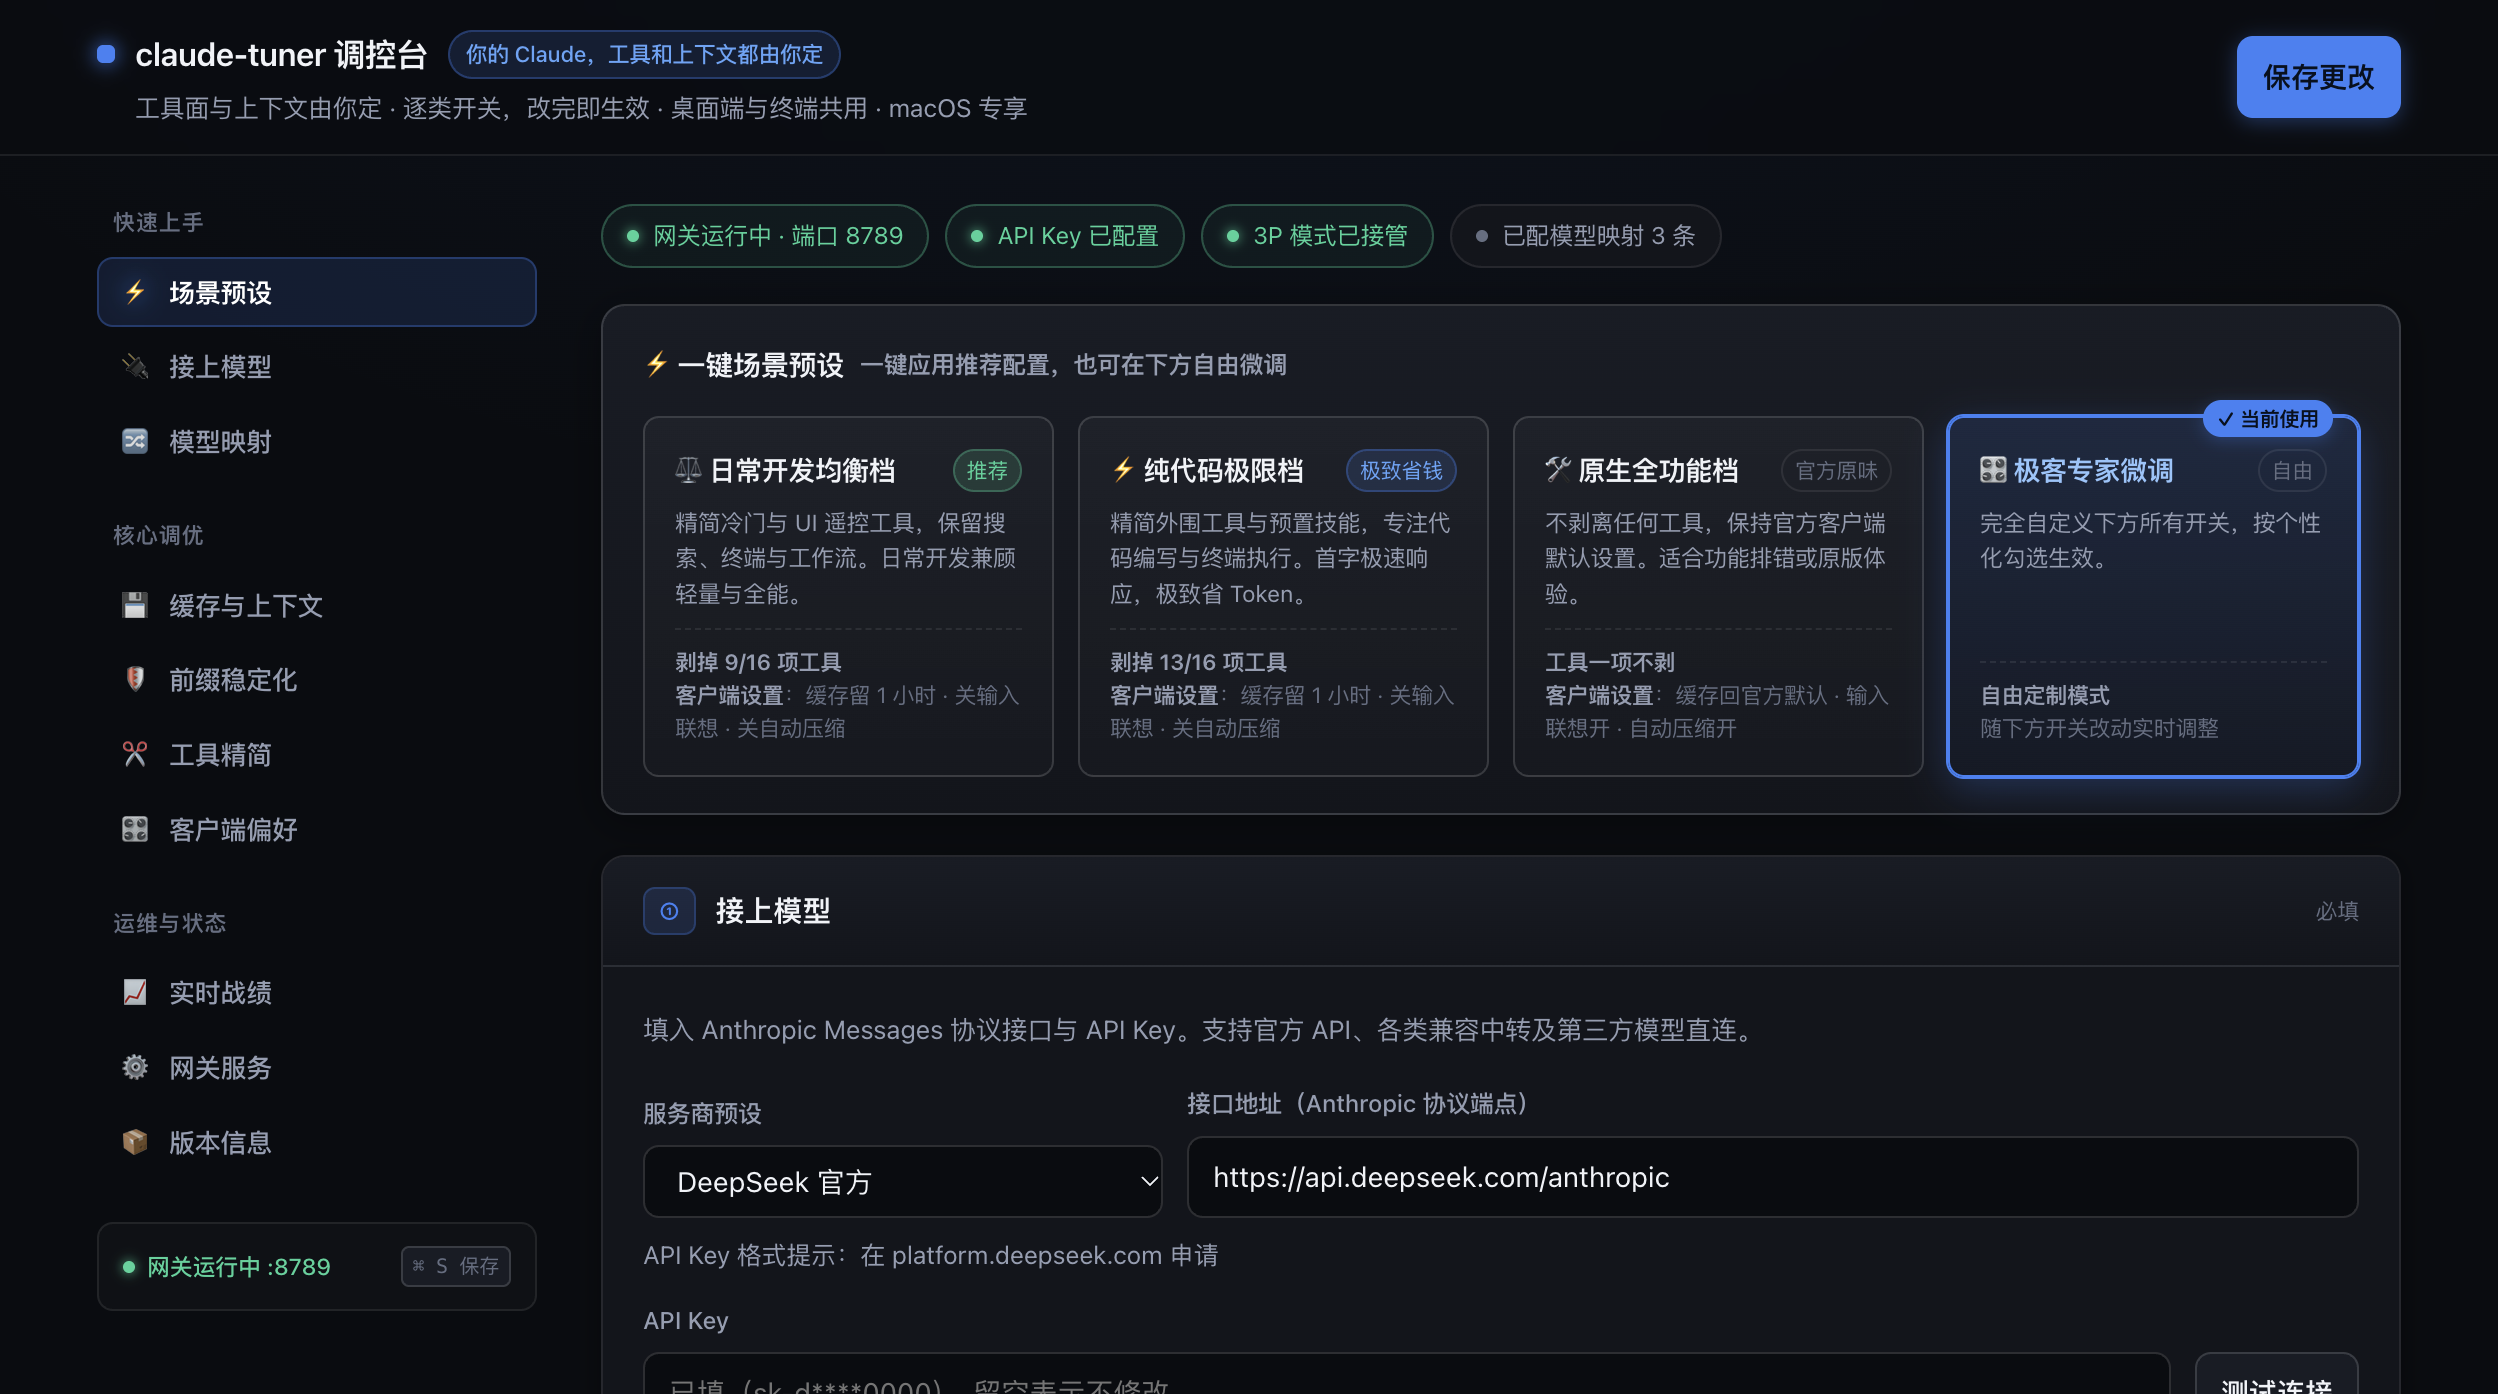
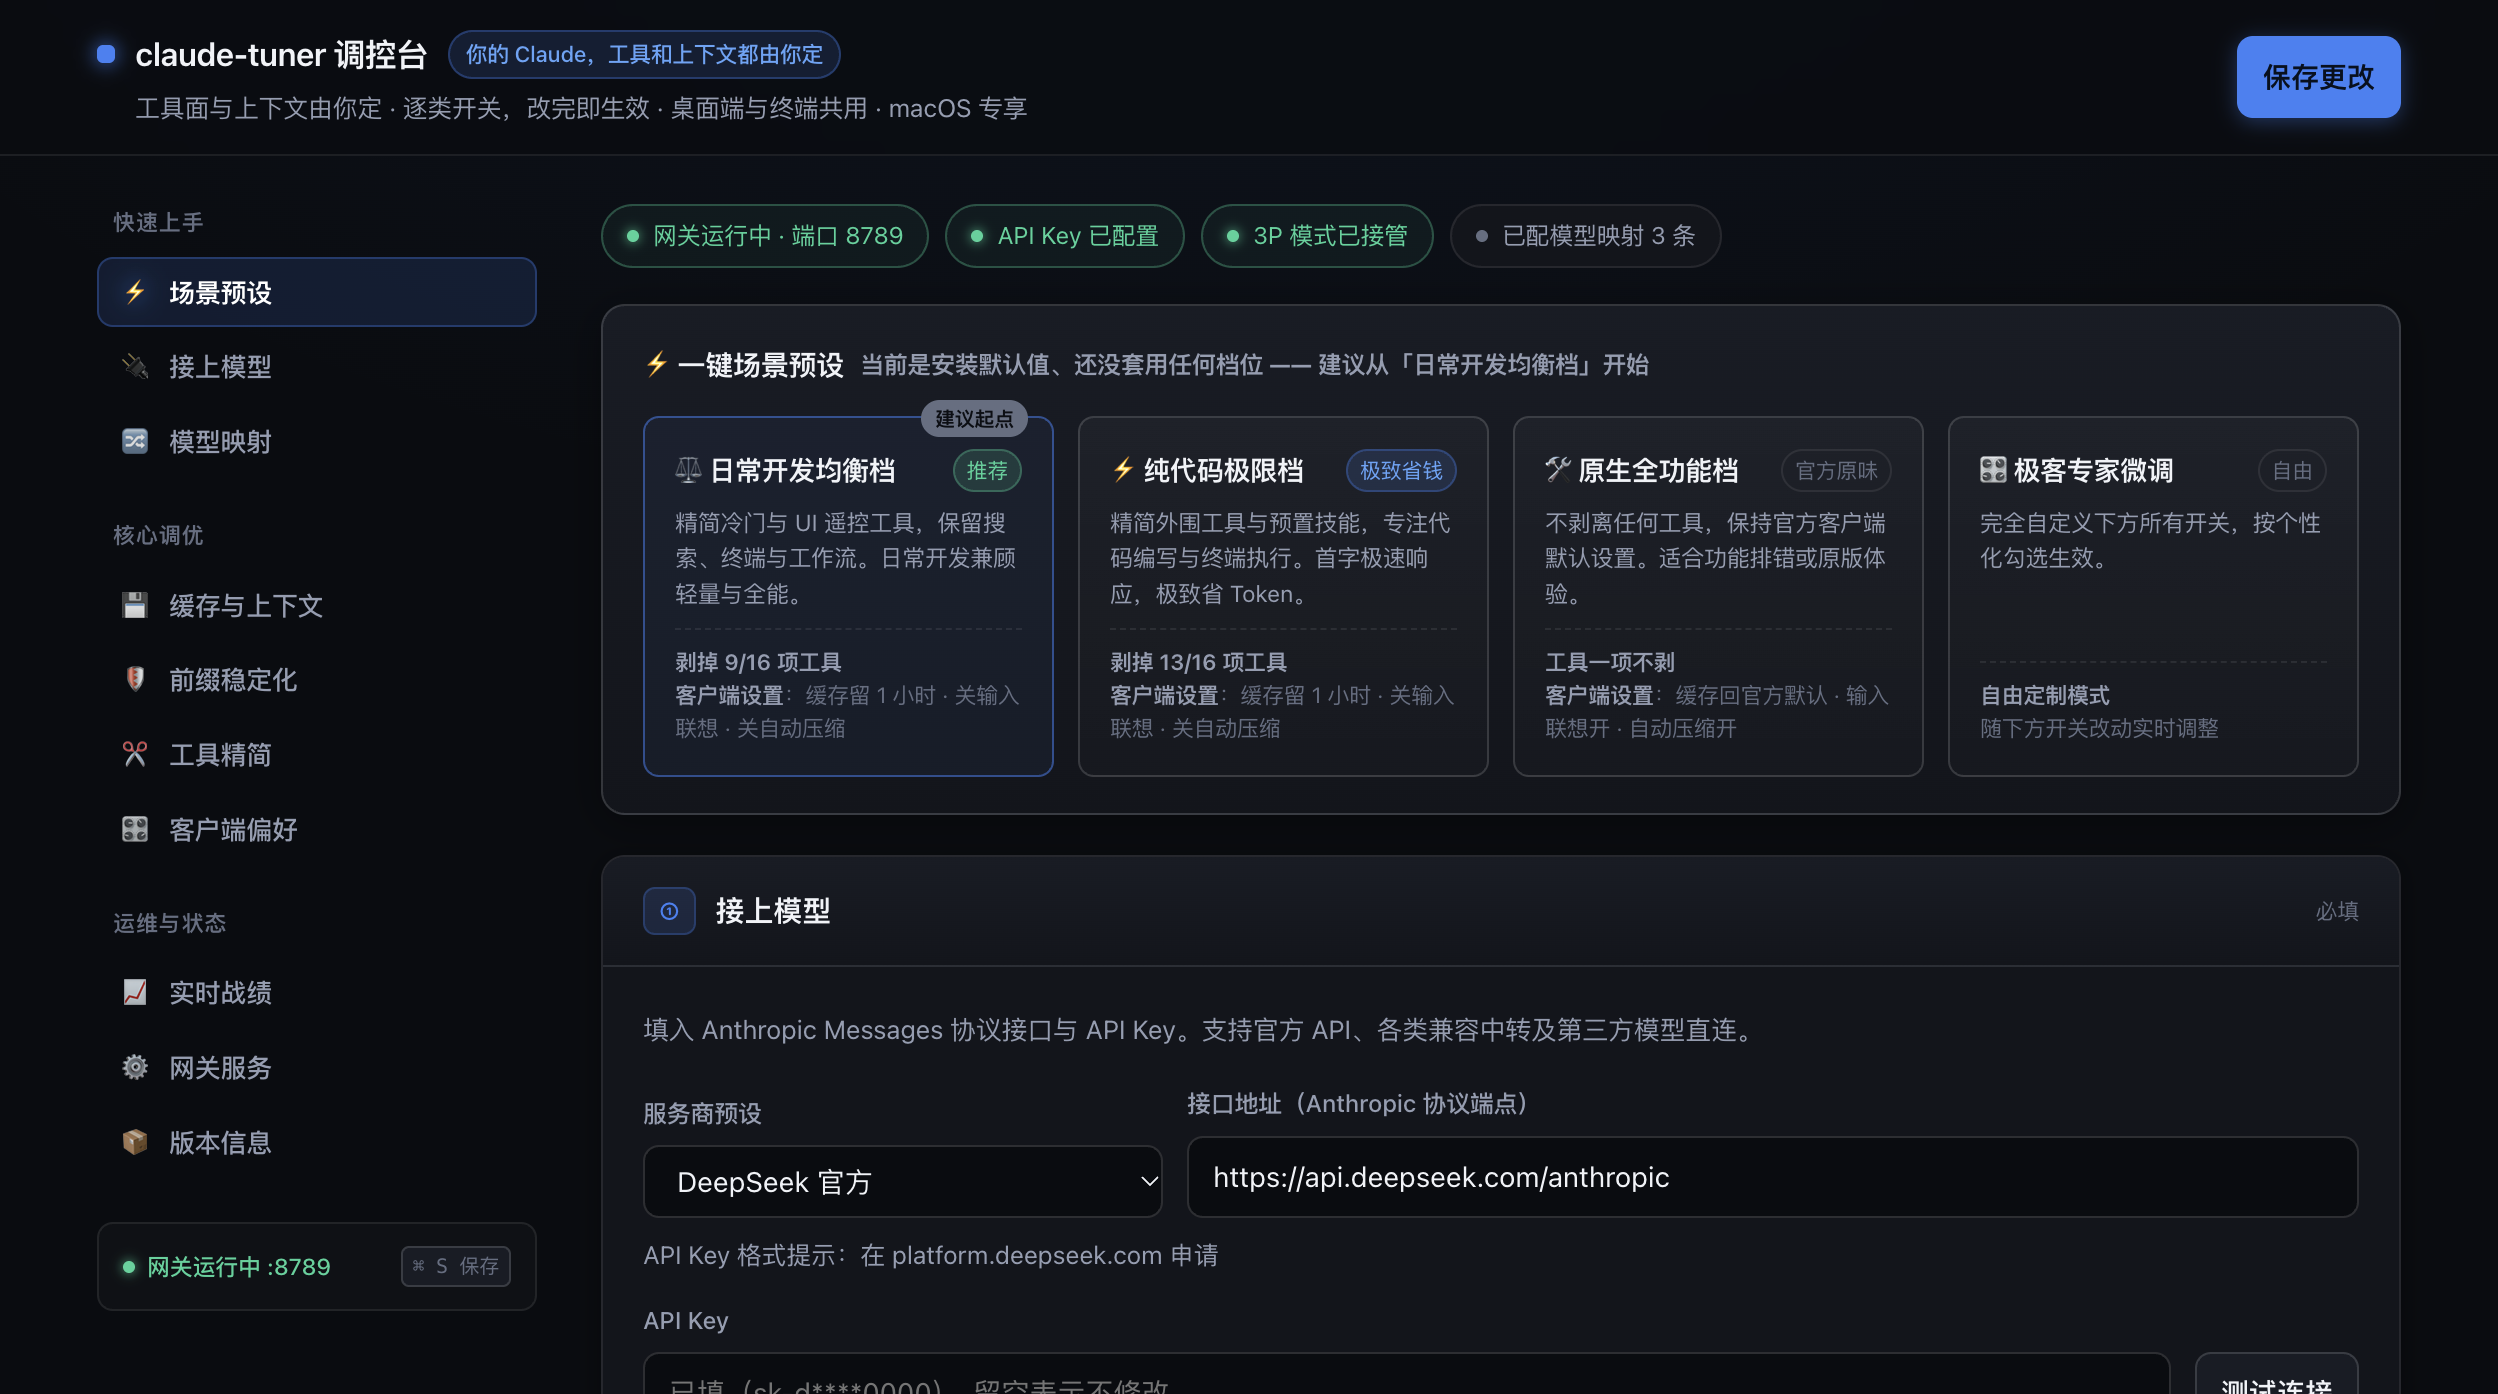
feat(webui): 安装默认时把推荐档标成「建议起点」，不再谎称「当前使用」
原来不匹配任何档位时，卡片一律高亮「极客专家微调 ✓ 当前使用」。但全新装完
用户什么都没改过 —— 那句话在陈述一件不成立的事。

而且这里有个不能图省事的地方：**安装默认并不等于推荐档**。默认剥 13 类（含网页搜索、
终端面板、编辑器联动），推荐档只剥 9 类、把这些都留着。所以不能把「推荐」直接当成
「当前使用」写上去。

**改成三态**，各自的说法都真：

| 状态 | 标记 | 提示 |
|---|---|---|
| 正好等于某一档 | 那档「✓ 当前使用」 | 当前使用的档位已标出 |
| 不等于任何档、但等于安装默认 | 推荐档「建议起点」（灰底，与「当前使用」明显不同） | 当前是安装默认值、还没套用任何档位 —— 建议从「日常开发均衡档」开始 |
| 用户自己改过 | 微调档「✓ 当前使用」 | 当前是你的自定义配置 |

区分后两态要拿**安装默认当基准**比一遍（新增 `atInstallDefaults()`：逐项对
`rules_defaults` / `pruning_defaults` / 合成开关 / 三个省钱开关）。不比的话两者都算
「不匹配」，而它们该说的话完全不同。

顺手修掉一处真 bug：`applyPreset` 原来自己 `toggle('active')`，它只知道「点了哪张卡」，
不知道点完之后开关成了什么 —— 于是提示会停在上一次的状态，而 `suggested` 那圈边框
清不掉，两种标记会叠在同一张卡上。现在交给 `checkCurrentPresetMatch` 统一决定。

实测五态（全新安装 / 点推荐 / 再手改一项 / 点原生 / 点微调）标记与提示均正确。
`1-connect.png` 一并重拍 —— 原来那张画的正是要改掉的「微调 ✓ 当前使用」。

diff --git a/webui/index.html b/webui/index.html
@@ -97,6 +97,11 @@
        box-shadow:0 0 0 1px var(--accent), 0 6px 20px var(--accent-glow)}
   .preset-card.active::after{content:"✓ 当前使用";position:absolute;top:-9px;right:12px;font-size:10px;font-weight:600;
        padding:1px 7px;border-radius:99px;background:var(--accent);color:#06101f;box-shadow:0 2px 8px var(--accent-glow)}
+  /* 「建议起点」：当前配置不等于任何一档时，给推荐档一个**建议**，而不是「当前使用」——
+     两者必须长得不一样。安装默认剥 13 类、推荐档只剥 9 类，本来就不是同一套开关。 */
+  .preset-card.suggested{border-color:rgba(59,130,246,0.5);background:rgba(59,130,246,0.06)}
+  .preset-card.suggested::after{content:"建议起点";position:absolute;top:-9px;right:12px;font-size:10px;font-weight:600;
+       padding:1px 7px;border-radius:99px;background:var(--dim2);color:#0b0e14}
   .preset-card-top{display:flex;align-items:center;justify-content:space-between;margin-bottom:6px}
   .preset-name{font-size:13.5px;font-weight:600;color:var(--fg)}
   .preset-card.active .preset-name{color:#93c5fd}
@@ -300,7 +305,7 @@
     <!-- 一键场景预设 -->
     <div class="preset-bar" id="presetBar">
       <div class="preset-bar-head">
-        <b>⚡ 一键场景预设 <span>一键应用推荐配置，也可在下方自由微调</span></b>
+        <b>⚡ 一键场景预设 <span id="presetHead">一键应用推荐配置，也可在下方自由微调</span></b>
       </div>
       <div class="preset-cards">
         <div class="preset-card active" data-mode="balanced">
@@ -762,11 +767,12 @@ function renderSwitches(d){
 
 // ── 场景预设交互 ───────────────────────────────────────────
 function applyPreset(mode){
-  document.querySelectorAll('.preset-card').forEach(c => {
-    c.classList.toggle('active', c.dataset.mode === mode);
-  });
+  // 卡片标记与那句提示**不在这里写** —— 由 checkCurrentPresetMatch 统一按勾选结果决定。
+  // 这里各写一遍会立刻对不上：它只知道「你点了哪张卡」，不知道点完之后开关到底成了什么，
+  // 于是标记和提示会各自说谎（而且 suggested 那圈边框清不掉，两种标记会叠在同一张卡上）。
   if (mode === 'custom') {
-    say('已切为自定义模式，可随意调整下方各项开关');
+    checkCurrentPresetMatch();
+    say('下方每一项都按你自己勾的结果生效；改过之后卡片会自动切到「极客专家微调」');
     return;
   }
   const p = PRESETS[mode];
@@ -798,6 +804,7 @@ function applyPreset(mode){
   const comp = $(`#moneyBox input[data-key="autoCompactEnabled"]`);
   if (comp) comp.checked = !p.settings.autoCompactEnabled;
 
+  checkCurrentPresetMatch();
   say(`已应用「${p.name}」推荐配置，点击右上角【保存更改】即可生效！`, 'ok');
 }
 
@@ -837,6 +844,39 @@ function renderPresetDetails(){
   });
 }
 
+// 「当前有没有自己改过」得拿**安装默认**当基准 —— 它不出现在卡片上，但只有比过它才知道
+// 底下这套开关是「原封不动的默认值」还是「用户自己调的」。少了这一步，两者都会被算成
+// 「不匹配任何档位」，而它们该说的话完全不同（一个说「建议从这档开始」，一个说「这是你的自定义」）。
+function atInstallDefaults(){
+  const rdefs = (CFG && CFG.options && CFG.options.rules_defaults) || {};
+  const tdefs = (CFG && CFG.options && CFG.options.pruning_defaults) || {};
+  for (const [k, v] of Object.entries(rdefs)) {
+    const el = $(`#ruleBox input[data-rule="${k}"]`);
+    if (el && el.checked !== !!v) return false;
+  }
+  for (const [k, v] of Object.entries(tdefs)) {
+    // 不是每个默认键都有对应的勾选框（如 strip_workflow_tools 归合成开关管）
+    const el = $(`#pruneBox input[data-tp="${k}"]`);
+    if (el && el.checked !== !!v) return false;
+  }
+  // 合成开关：安装时不写 disableBundledSkills，所以它应当是关的
+  const comp = $('#pruneBox input[data-composite="workflowBundle"]');
+  if (comp && comp.checked) return false;
+  // 三个省钱开关：安装时缓存 1h、关联想、关自动压缩 —— 三个框都该是勾上的
+  for (const k of ['promptCacheTtl', 'promptSuggestionEnabled', 'autoCompactEnabled']) {
+    const el = $(`#moneyBox input[data-key="${k}"]`);
+    if (el && !el.checked) return false;
+  }
+  return true;
+}
+
+function markPresetCards(mode, kind){
+  document.querySelectorAll('.preset-card').forEach(c => {
+    c.classList.toggle('active',    kind === 'active'    && c.dataset.mode === mode);
+    c.classList.toggle('suggested', kind === 'suggested' && c.dataset.mode === mode);
+  });
+}
+
 function checkCurrentPresetMatch(){
   for (const [mode, p] of Object.entries(PRESETS)) {
     let match = true;
@@ -855,15 +895,20 @@ function checkCurrentPresetMatch(){
       if (el && el.checked !== v) { match = false; break; }
     }
     if (match) {
-      document.querySelectorAll('.preset-card').forEach(c => {
-        c.classList.toggle('active', c.dataset.mode === mode);
-      });
+      markPresetCards(mode, 'active');
+      $('#presetHead').textContent = '当前使用的档位已标出，也可在下方自由微调';
       return;
     }
   }
-  document.querySelectorAll('.preset-card').forEach(c => {
-    c.classList.toggle('active', c.dataset.mode === 'custom');
-  });
+  // 三态里的后两态。**推荐档不写「当前使用」** —— 安装默认与它不是同一套开关
+  // （默认剥 13 类含搜索/终端，推荐只剥 9 类），写上去就是在陈述一件不成立的事。
+  if (atInstallDefaults()) {
+    markPresetCards('balanced', 'suggested');
+    $('#presetHead').textContent = '当前是安装默认值、还没套用任何档位 —— 建议从「日常开发均衡档」开始';
+  } else {
+    markPresetCards('custom', 'active');
+    $('#presetHead').textContent = '当前是你的自定义配置，点任一档位可重新套用';
+  }
 }
 
 function renderVersions(d){
